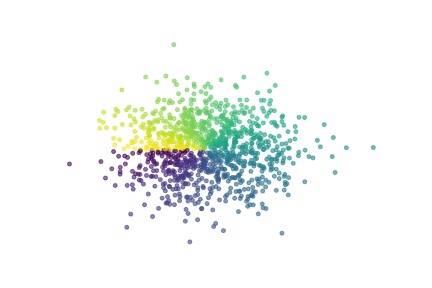
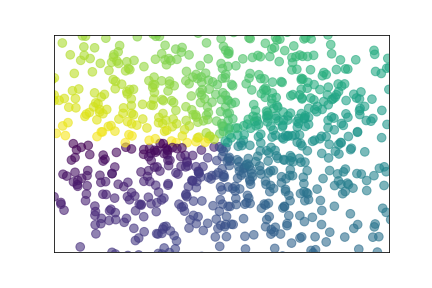
Add files via upload

diff --git a/scatter_plot.py b/scatter_plot.py
@@ -18,10 +18,15 @@ Y = np.random.normal(0, 1, n)
 # s: marker size
 # alpha: transparency
 
-plt.scatter(X, Y, c=np.angle(X+Y*1j), s=15, alpha=0.6)
+plt.scatter(X, Y, c=np.angle(X+Y*1j), s=75, alpha=0.6)
 
-# Hide axis
-plt.axis('off')
+# Hide axis labels
+plt.xticks(())
+plt.yticks(())
+
+# Zoom window
+plt.xlim(-1.5, 1.5)
+plt.ylim(-1.5, 1.5)
 
 # Save figure using 72 dots per inch
 plt.savefig('scatter_plot.png', dpi=72)
